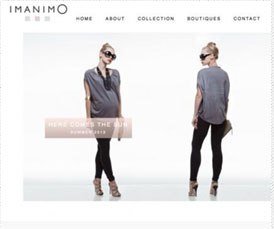
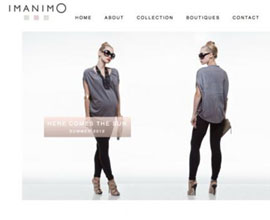
More work.

diff --git a/_includes/themes/twitter/default.html b/_includes/themes/twitter/default.html
@@ -94,9 +94,8 @@
             <div class="navbar hidden-phone">
 
               <ul class="nav">
-                {% assign pages_list = site.pages %}
-                {% assign group = 'navigation' %}
-                {% include JB/pages_list %}
+                <li><a href="/#work">Work</a></li>
+                <li><a href="/#contributions">Contributions</a></li>
               </ul>
             </div>
 
@@ -129,7 +128,7 @@
 
     <footer class="footer-container"><!-- Begin Footer -->
       <div class="container">
-        <h4 class="title-bg"><a class="primary" href="#contact">contact</a></h4>
+        <h4 class="title-bg"><a class="primary" name="contact">contact</a></h4>
         <div class="row footer-row">
           <div class="span8 footer-col">
             <h5>Contact Us</h5>

diff --git a/assets/themes/twitter/css/style.css b/assets/themes/twitter/css/style.css
@@ -265,6 +265,7 @@ body.home a {
 }
 .main-container .clients-row li.gallery-item {
   line-height: 95px;
+  text-align: center;
 }
 .main-container .clients-row li.gallery-item img {
   vertical-align: middle;

diff --git a/assets/themes/twitter/sass/pages/_front.scss b/assets/themes/twitter/sass/pages/_front.scss
@@ -174,6 +174,7 @@ body.home {
 
     li.gallery-item {
       line-height: 95px;
+      text-align: center;
 
       img {
         vertical-align: middle;

diff --git a/index.md b/index.md
@@ -12,16 +12,21 @@ quotes:
 clients:
   - name: whitehouse
     alt: "The whitehouse uses Organic groups for it's forum"
+  - name: openscholar
+    alt: "Site built by Gizra"
+  - name: drupal-groups
+    alt: "Site built by Gizra"
+  - name: imanimo
+    alt: "Site built by Gizra"
   - name: medico
     alt: "Site built by Gizra"
-
 ---
 {% include JB/setup %}
 
 <div class="row gallery-row websites-row"><!-- Begin Websites Row -->
 
   <div class="span12">
-    <h2 class="title-bg"><a class="primary" href="#work">work</a><a class="secondary hidden-phone" href="/portfolio">See our whole portfolio</a></h2>
+    <h2 class="title-bg"><a class="primary" name="work">work</a><a class="secondary hidden-phone" href="/portfolio">See our whole portfolio</a></h2>
 
     <!-- Website  Thumbnails
     ================================================== -->
@@ -47,7 +52,7 @@ clients:
 <div class="row gallery-row contributions-row"><!-- Begin Contributions Row -->
 
   <div class="span12">
-    <h2 class="title-bg"><a class="primary" href="#contributions">contributions</a></h2>
+    <h2 class="title-bg"><a class="primary" name="contributions">contributions</a></h2>
     <div class="secondary-title hidden-phone">Modules and other stuff we contribute, that make Drupal awesome</div>
 
     <!-- Contributions  Thumbnails
@@ -80,7 +85,7 @@ clients:
 <div class="row gallery-row info-row"><!-- Begin Info Row -->
 
   <div class="span12">
-    <h2 class="title-bg"><a class="primary" href="#info">info</a></h2>
+    <h2 class="title-bg"><a class="primary" name="info">info</a></h2>
     <div class="secondary-title hidden-phone">A little about us</div>
 
     <!-- People  Thumbnails
@@ -132,7 +137,7 @@ clients:
 <div class="row gallery-row clients-row"><!-- Begin Clients Row -->
 
   <div class="span12">
-    <h2 class="title-bg"><a class="primary" href="#clients">clients</a></h2>
+    <h2 class="title-bg"><a class="primary" name="clients">clients</a></h2>
     <div class="secondary-title hidden-phone">clients and organizations using our Drupal code</div>
 
     <!-- Clients Thumbnails
@@ -152,7 +157,7 @@ clients:
 
 <div class="row gallery-row blog-row"><!-- Begin Blog Row -->
   <div class="span12">
-    <h2 class="title-bg"><a class="primary" href="#blog">blog</a><a class="secondary hidden-phone" href="/blog">See previous posts</a></h2>
+    <h2 class="title-bg"><a class="primary" name="blog">blog</a><a class="secondary hidden-phone" href="/blog">See previous posts</a></h2>
 
     <!-- Blog teasers
     ================================================== -->

diff --git a/websites/cinemafringe/index.md b/websites/cinemafringe/index.md
@@ -1,0 +1,10 @@
+---
+layout: page
+title: "Cinema Fringe"
+description: "Collaboration platform for filmmakers"
+category: website
+permalink: /
+---
+{% include JB/setup %}
+
+Info about Fringe
